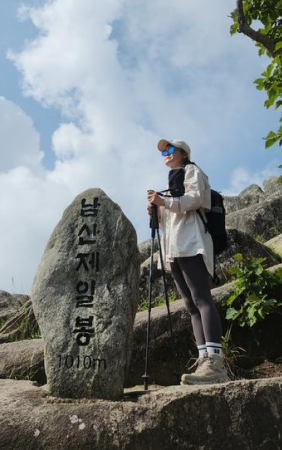
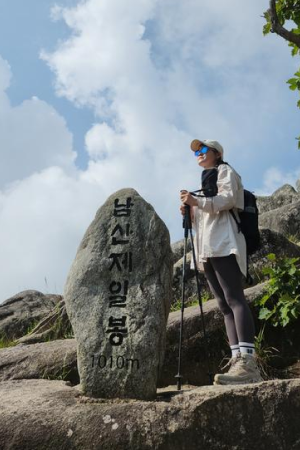
Add files via upload

diff --git a/css/reggings.css b/css/reggings.css
@@ -193,11 +193,11 @@ main .review_wrap h1{
     margin-bottom: 50px;
 }
 main .review_wrap .rate_wrap{
-    /* background-color: red; */
     display: flex;
     padding: 50px 0;
     border-top: 1px solid #D1D1D1;
     border-bottom: 1px solid #D1D1D1;
+    /* background-color: red; */
 }
 main .review_wrap .rate_wrap .rate_total{
     font-size: 2.25rem;
@@ -261,8 +261,8 @@ main .media_wrap .media_title{
     display: flex;
     justify-content: space-between;
     align-items: end;
-    /* background-color: red; */
     margin-bottom: 50px;
+    /* background-color: red; */
 }
 main .media_wrap .media_title h2{
     font-weight: 600;
@@ -280,17 +280,17 @@ main .media_wrap .picture_all .picture_wrap .picture_li{
     /* background-color: blue; */
 }
 /* 공통 */
-main .media_wrap .picture_all .picture_wrap .picture_li:nth-child(2) .picture_img{background: url(../img/reggings/picture01.png) no-repeat;}
+main .media_wrap .picture_all .picture_wrap .picture_li:nth-child(1) .picture_img{background: url(../img/reggings/picture01.png) no-repeat;}
+main .media_wrap .picture_all .picture_wrap .picture_li:nth-child(2) .picture_img{background: url(../img/reggings/picture02.png) no-repeat;}
 main .media_wrap .picture_all .picture_wrap .picture_li:nth-child(3) .picture_img{background: url(../img/reggings/picture03.png) no-repeat;}
 main .media_wrap .picture_all .picture_wrap .picture_li:nth-child(4) .picture_img{background: url(../img/reggings/picture04.png) no-repeat;}
 main .media_wrap .picture_all .picture_wrap .picture_li:nth-child(5) .picture_img{background: url(../img/reggings/picture05.png) no-repeat;}
 main .media_wrap .picture_all .picture_wrap .picture_li:nth-child(6) .picture_img{background: url(../img/reggings/picture06.png) no-repeat;}
 main .media_wrap .picture_all .picture_wrap .picture_li .picture_img{
-    background: url(../img/reggings/picture01.png) no-repeat;
-    /*  */
     width: 300px;
     height: 450px;
     display: block;
+    background-size: cover;
 }
 main .media_wrap .picture_all .picture_wrap .picture_li .picture_img .picture_txt{
     padding: 300px 10px 0 10px;
@@ -323,7 +323,7 @@ main .select_wrap{
     display: flex;
     justify-content: space-between;
     width: 1600px;
-    margin: 200px auto 30px;
+    margin: 200px auto 90px;
 }
 main .select_wrap .select_left{}
 main .select_wrap .select_right{}
@@ -361,14 +361,14 @@ main .select_wrap .select_right #select_order option{}
 main .pick_wrap{
     width: 1600px; 
     margin: 0 auto;
-    padding: 120px 0;
+    padding: 60px 0;
     border-top: 1px solid #d9d9d9;
 }
 main .pick_wrap .pick_all{}
 main .pick_wrap .pick_all .pick_li{
     display: flex;
-    /* background-color: purple; */
     border-bottom: 1px solid #d9d9d9;
+    /* background-color: purple; */
 }
 main .pick_wrap .pick_all .pick_li .pick_detail{
     width: 25%; 
@@ -382,15 +382,18 @@ main .pick_wrap .pick_all .pick_li .pick_detail .detail_top p{font-size: 1.25rem
 main .pick_wrap .pick_all .pick_li .pick_detail .detail_bottom{
     display: flex;
     flex-wrap: wrap;
+    padding: 0 30px;
     /* background-color: blue; */
 }
 main .pick_wrap .pick_all .pick_li .pick_detail .detail_bottom dt{
     width: 30%;
-    /* background-color: green; */
+    line-height: 1.8;
     margin-bottom: 15px;
+    /* background-color: green; */
 }
 main .pick_wrap .pick_all .pick_li .pick_detail .detail_bottom dd{
     width: 70%;
+    line-height: 1.8;
     /* background-color: yellow; */
 }
 main .pick_wrap .pick_all .pick_li .pick_txt{
@@ -428,14 +431,15 @@ main .page_wrap{
     width: 820px;
     margin: 0 auto 350px;
 }
+/* 공통 */
 main .page_wrap a{
     display: inline-block;
     width: 40px; height: 40px;
     text-align: center;
     line-height: 40px;
-    border: 1px solid #999;
     border-radius: 8px;
     margin-right: 20px;
+    background-color: #fafafa;
 }
 main .page_wrap > a{background-color: #e3e3e3;}
 main .page_wrap > a > img{vertical-align: middle; transform: translateY(-10%);}

diff --git a/reggings.html b/reggings.html
@@ -49,7 +49,7 @@
                         <li><a href="#">하의</a></li>
                         <li><a href="#">아우터</a></li>
                         <li><a href="#">슈즈</a></li>
-                    </ul>
+                    </ul>k
                 </li>
                 <li><a href="./reggings.html">KIDS</a>
                     <ul class="sub">
@@ -182,7 +182,7 @@
         <section class="withitem_wrap">
             <div class="item_title">
                 <h1>WITH ITEM</h1>
-                <p>함께 코디된 상품입니다.</p>
+                <p>함께 코디하면 어울릴 추천 상품입니다.</p>
             </div>
             <div class="swiper item_all"><!-- 스와이퍼 -->
                 <div class="swiper-wrapper item_wrap">
@@ -231,7 +231,7 @@
                         </div>
                     </div>
                     <div class="swiper-slide item_li">
-                        <a href="#" class="item_img"><img src="./img/reggings/item04.png" alt="아이템 상품 이미지"></a>
+                        <a href="#" class="item_img"><img src="./img/reggings/item05.png" alt="아이템 상품 이미지"></a>
                         <div class="item_txt">
                             <h2>젤라 인텐션 원숄더 브라탑 클라우드블루</h2>
                             <p class="price">
@@ -280,7 +280,7 @@
                         <div class="bar">
                             <div class="progressing"></div>
                         </div>
-                        <p class="persentage">90%</p>
+                        <p class="persentage">65%</p>
                     </div>
                 </div>
             </div>

diff --git a/script/common.js b/script/common.js
@@ -4,12 +4,12 @@ $('nav .sub').hide()
 $('nav .sub_bg').hide()
 //2. nav 마우스오버 시 sub 보이기
 $('nav').on('mouseover', function () {
-    /* 동적 움직임을 추가 하고 싶다면 */
+    /* 동적 움직임 추가 */
     $('nav .sub').stop(true).slideDown(300)
     $('nav .sub_bg').stop(true).slideDown(300)
 })
 $('nav').on('mouseout', function () {
-    /* 동적 움직임을 추가 하고 싶다면 */
+    /* 동적 움직임 추가 */
     $('nav .sub').stop(true).slideUp(300)
     $('nav .sub_bg').stop(true).slideUp(300)
 }) 

diff --git a/script/reggings.js b/script/reggings.js
@@ -1,7 +1,5 @@
 const product_color_all= new Swiper(".product_color_all",{
-    slidesPerView: 1,
-    slidesPerShow: 1,
-    
+    slidesPerView: 1,    
     navigation: {
         prevEl: '.product_color_all .swiper-button-prev',
         nextEl: '.product_color_all .swiper-button-next',
